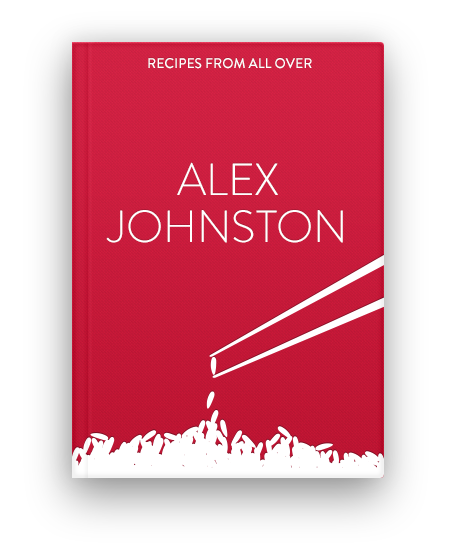
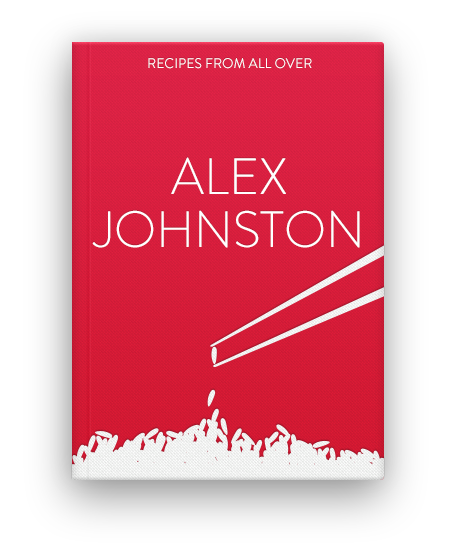
Updated welcome screens

Changed region(s): [[0.2149, 0.2742, 0.8596, 0.7007], [0.1535, 0.6703, 0.8596, 0.8835], [0.1842, 0.0609, 0.8289, 0.1219]]

diff --git a/Cook/Classes/Controllers/Welcome/WelcomeCollectionViewLayout.m b/Cook/Classes/Controllers/Welcome/WelcomeCollectionViewLayout.m
@@ -237,7 +237,7 @@
     NSIndexPath *leftIndexPath = [NSIndexPath indexPathForItem:0 inSection:kWelcomeSection];
     CGSize leftSize = [self.dataSource sizeOfAdornmentForIndexPath:leftIndexPath];
     UICollectionViewLayoutAttributes *leftLayoutAttributes = [UICollectionViewLayoutAttributes layoutAttributesForCellWithIndexPath:leftIndexPath];
-    leftLayoutAttributes.frame = CGRectMake(pageOffset - kAdornmentOffset,
+    leftLayoutAttributes.frame = CGRectMake(pageOffset - kAdornmentOffset - 100.0,
                                             floorf((size.height - leftSize.height) / 2.0),
                                             leftSize.width,
                                             leftSize.height);
@@ -248,7 +248,7 @@
     NSIndexPath *rightIndexPath = [NSIndexPath indexPathForItem:1 inSection:kWelcomeSection];
     CGSize rightSize = [self.dataSource sizeOfAdornmentForIndexPath:rightIndexPath];
     UICollectionViewLayoutAttributes *rightLayoutAttributes = [UICollectionViewLayoutAttributes layoutAttributesForCellWithIndexPath:rightIndexPath];
-    rightLayoutAttributes.frame = CGRectMake(pageOffset + size.width - rightSize.width + kAdornmentOffset,
+    rightLayoutAttributes.frame = CGRectMake(pageOffset + size.width - rightSize.width + kAdornmentOffset + 100.0,
                                              floorf((size.height - rightSize.height) / 2.0),
                                              rightSize.width,
                                              rightSize.height);

diff --git a/Cook/Classes/Controllers/Welcome/WelcomeViewController.m b/Cook/Classes/Controllers/Welcome/WelcomeViewController.m
@@ -147,7 +147,7 @@
                                                    text:@"WELCOME" textAlignment:NSTextAlignmentCenter
                                           availableSize:size paragraphBefore:-10.0];
         titleLabel.frame = CGRectMake(floorf((size.width - titleLabel.frame.size.width) / 2.0),
-                                      120.0,
+                                      140.0,
                                       titleLabel.frame.size.width,
                                       titleLabel.frame.size.height);
         [_welcomePageView addSubview:titleLabel];
